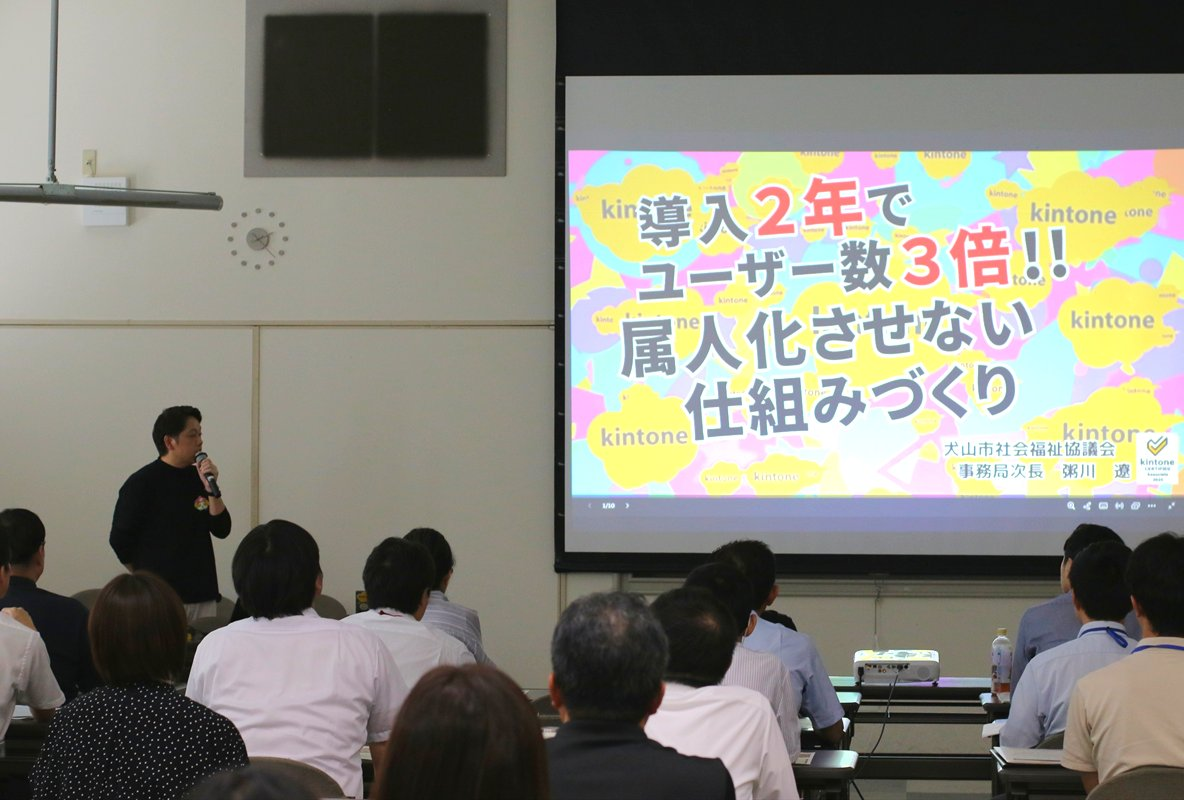
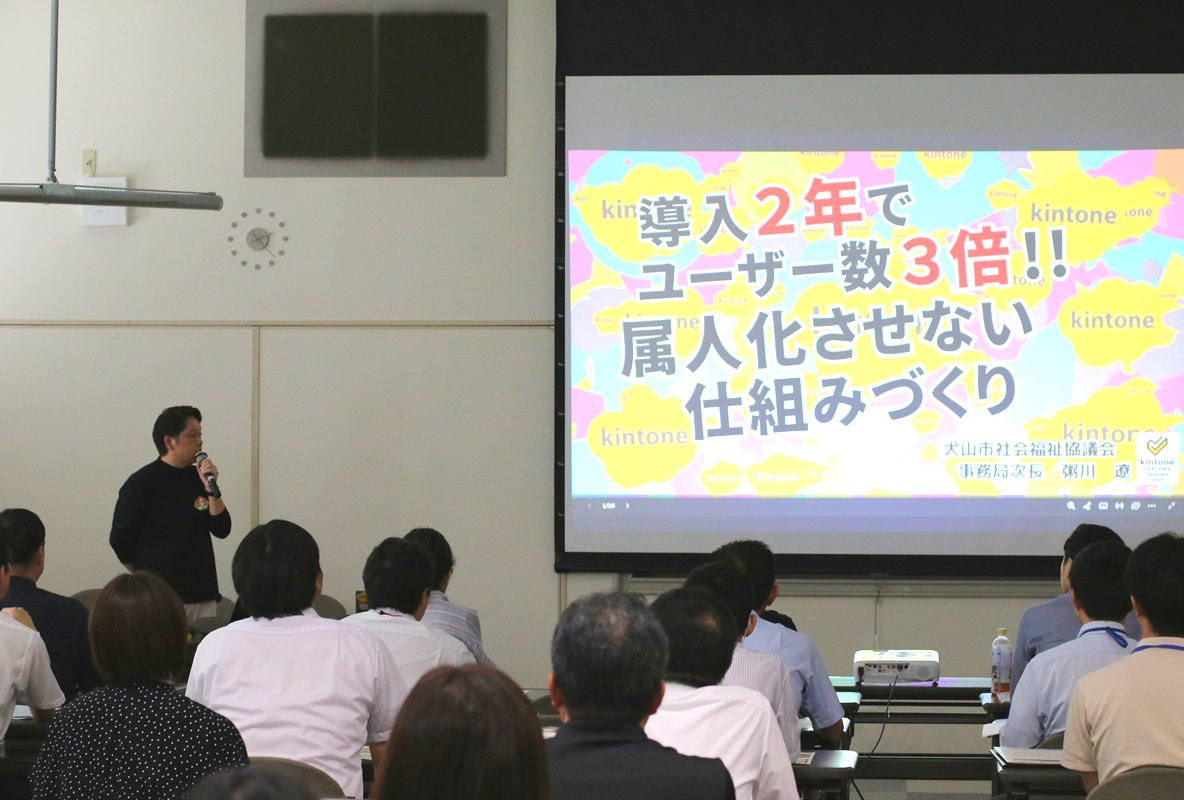
セミナー：講演2の写真を明るく、登壇者敬称を「氏」に統一

diff --git a/events/social-welfare-seminar-2026-08/index.html b/events/social-welfare-seminar-2026-08/index.html
@@ -368,7 +368,7 @@
                     <img src="photo-lecture.jpg" class="program-photo" alt="講演1で発表するサイボウズ 山田様">
                     <span class="program-tag">講演1</span>
                     <h3 class="program-title">kintoneで実現できる業務改善</h3>
-                    <p class="program-speaker">サイボウズ株式会社 リージョナル第1営業部 山田 英生 様</p>
+                    <p class="program-speaker">サイボウズ株式会社 リージョナル第1営業部 山田 英生 氏</p>
                     <p>kintoneの基本機能である「データベース」「ワークフロー」「コミュニケーション」の3つの要素を軸に、ドラッグ＆ドロップで誰でも簡単に業務アプリを作成できる仕組みを紹介しました。<br class="br-pc">また、外部Webサイトと連携させて市民からの直接入力を自動でkintoneに取り込む仕組みや、AI機能を活用した業務ノウハウの検索・メール回答作成支援についても解説しました。</p>
                     <a href="lecture1.html" class="detail-link"><span class="label-text">詳しく見る</span> <i class="fas fa-chevron-right arrow" style="font-size: 12px;"></i></a>
                 </div>
@@ -377,7 +377,7 @@
                     <img src="photo-room.jpg" class="program-photo" alt="講演2で発表する犬山市社会福祉協議会 粥川様">
                     <span class="program-tag">講演2</span>
                     <h3 class="program-title">導入2年でユーザー数3倍！<br class="br-pc">属人化させない仕組みづくり</h3>
-                    <p class="program-speaker">犬山市社会福祉協議会 事務局次長 粥川 遼 様</p>
+                    <p class="program-speaker">犬山市社会福祉協議会 事務局次長 粥川 遼 氏</p>
                     <p>異動1年目に直面した紙管理やExcelデータの山を解消するため、2年前にkintoneを導入しました。<br class="br-pc">現在ではパートを除く職員26名のうち21名がアカウントを持ち、26業務・68アプリを運用しています。<br class="br-pc">導入を成功に導いた要因として「トップダウン」「コアメンバー」「スモールスタート」の3つのキーワードを挙げ、業務の属人化を防ぐための具体的な組織設計について語りました。</p>
                     <a href="lecture2.html" class="detail-link"><span class="label-text">詳しく見る</span> <i class="fas fa-chevron-right arrow" style="font-size: 12px;"></i></a>
                 </div>
@@ -386,7 +386,7 @@
                     <img src="photo-presenter2.jpg" class="program-photo" alt="講演3で発表する美濃加茂市社会福祉協議会 長谷川様">
                     <span class="program-tag">講演3</span>
                     <h3 class="program-title">災害VCだけじゃない！<br class="br-pc">美濃加茂市社会福祉協議会の活用方法について</h3>
-                    <p class="program-speaker">美濃加茂市社会福祉協議会 地域福祉課長 長谷川 武司 様</p>
+                    <p class="program-speaker">美濃加茂市社会福祉協議会 地域福祉課長 長谷川 武司 氏</p>
                     <p>10年前、ボランティアのポイント管理とマッチング業務の属人化（年間6500件を紙とFAXで1名が担当）を解消するために導入を開始しました。<br class="br-pc">現在では300以上のアプリを開発し、日常生活自立支援、生活困窮者自立支援、福祉車両カレンダー、車検リマインダー、Googleマップ連携など、福祉・社協業務のほぼ全般でkintoneを活用しています。</p>
                     <a href="lecture3.html" class="detail-link"><span class="label-text">詳しく見る</span> <i class="fas fa-chevron-right arrow" style="font-size: 12px;"></i></a>
                 </div>
@@ -395,7 +395,7 @@
                     <img src="photo-lecture4.jpg" class="program-photo" alt="講演4で発表するアントベアクリエイツ 森田様">
                     <span class="program-tag">講演4</span>
                     <h3 class="program-title">ええがねプラグインのご紹介</h3>
-                    <p class="program-speaker">アントベアクリエイツ合同会社 森田 愉 様</p>
+                    <p class="program-speaker">アントベアクリエイツ合同会社 森田 愉 氏</p>
                     <p>kintoneの標準機能では補いきれない「社協ならではの業務」へのアプローチ方法<br class="br-pc">（紙のまま／標準機能の徹底／プラグイン／個別カスタマイズ開発の4分類）を整理。<br class="br-pc">その上で、現場で重宝する独自の便利プラグイン（ええがねシリーズ）を紹介しました。</p>
                     <a href="lecture4.html" class="detail-link"><span class="label-text">詳しく見る</span> <i class="fas fa-chevron-right arrow" style="font-size: 12px;"></i></a>
                 </div>

diff --git a/events/social-welfare-seminar-2026-08/lecture2.html b/events/social-welfare-seminar-2026-08/lecture2.html
@@ -141,7 +141,7 @@
                 <div class="article-header">
                     <span class="program-tag">講演2</span>
                     <h1>導入2年でユーザー数3倍！属人化させない仕組みづくり</h1>
-                    <p class="speaker-line">社会福祉法人犬山市社会福祉協議会 事務局次長 粥川 遼 様</p>
+                    <p class="speaker-line">社会福祉法人犬山市社会福祉協議会 事務局次長 粥川 遼 氏</p>
                 </div>
 
                 <img src="kayukawa-slide1.jpg" class="lead-photo" alt="「導入2年でユーザー数3倍！属人化させない仕組みづくり」について発表する犬山市社会福祉協議会 粥川様">
@@ -152,7 +152,7 @@
                 <p>業務の属人化を防ぐために同社協が実践した「トップダウン」「コアメンバー」「スモールスタート」の3つのキーワードに基づき、具体的な組織・普及ロードマップが語られました。</p>
 
                 <div class="center-photo">
-                    <img src="kayukawa-closeup.jpg" alt="発表する犬山市社会福祉協議会 事務局次長 粥川 遼 様">
+                    <img src="kayukawa-closeup.jpg" alt="発表する犬山市社会福祉協議会 事務局次長 粥川 遼 氏">
                 </div>
 
                 <h2>発表の重要トピック</h2>

diff --git a/events/social-welfare-seminar-2026-08/lecture3.html b/events/social-welfare-seminar-2026-08/lecture3.html
@@ -83,7 +83,7 @@
             <div class="article-body">
                 <span class="program-tag">講演3</span>
                 <h1>災害VCだけじゃない！美濃加茂市社会福祉協議会の活用方法について</h1>
-                <p class="speaker-line">社会福祉法人美濃加茂市社会福祉協議会 地域福祉課長 長谷川 武司 様</p>
+                <p class="speaker-line">社会福祉法人美濃加茂市社会福祉協議会 地域福祉課長 長谷川 武司 氏</p>
                 <div class="prep-box">
                     <i class="fas fa-pen-ruler"></i>
                     <p>この講演の詳細レポートは<strong>近日公開予定</strong>です。<br>今しばらくお待ちください。</p>

diff --git a/events/social-welfare-seminar-2026-08/lecture1.html b/events/social-welfare-seminar-2026-08/lecture1.html
@@ -83,7 +83,7 @@
             <div class="article-body">
                 <span class="program-tag">講演1</span>
                 <h1>kintoneで実現できる業務改善</h1>
-                <p class="speaker-line">サイボウズ株式会社 リージョナル第1営業部 山田 英生 様</p>
+                <p class="speaker-line">サイボウズ株式会社 リージョナル第1営業部 山田 英生 氏</p>
                 <div class="prep-box">
                     <i class="fas fa-pen-ruler"></i>
                     <p>この講演の詳細レポートは<strong>近日公開予定</strong>です。<br>今しばらくお待ちください。</p>

diff --git a/events/social-welfare-seminar-2026-08/lecture4.html b/events/social-welfare-seminar-2026-08/lecture4.html
@@ -83,7 +83,7 @@
             <div class="article-body">
                 <span class="program-tag">講演4</span>
                 <h1>ええがねプラグインのご紹介</h1>
-                <p class="speaker-line">アントベアクリエイツ合同会社 代表 森田 諭 様</p>
+                <p class="speaker-line">アントベアクリエイツ合同会社 代表 森田 諭 氏</p>
                 <div class="prep-box">
                     <i class="fas fa-pen-ruler"></i>
                     <p>この講演の詳細レポートは<strong>近日公開予定</strong>です。<br>今しばらくお待ちください。</p>
